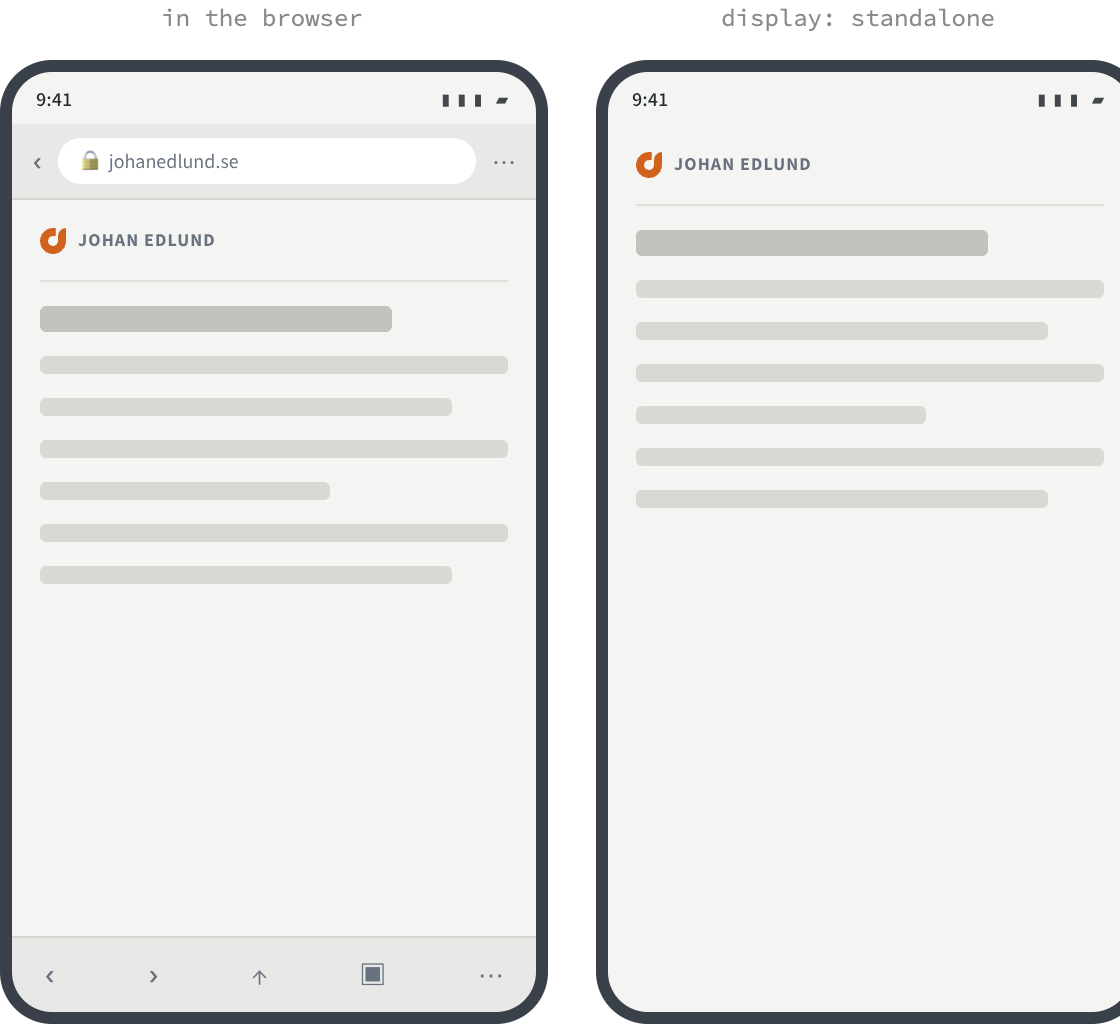
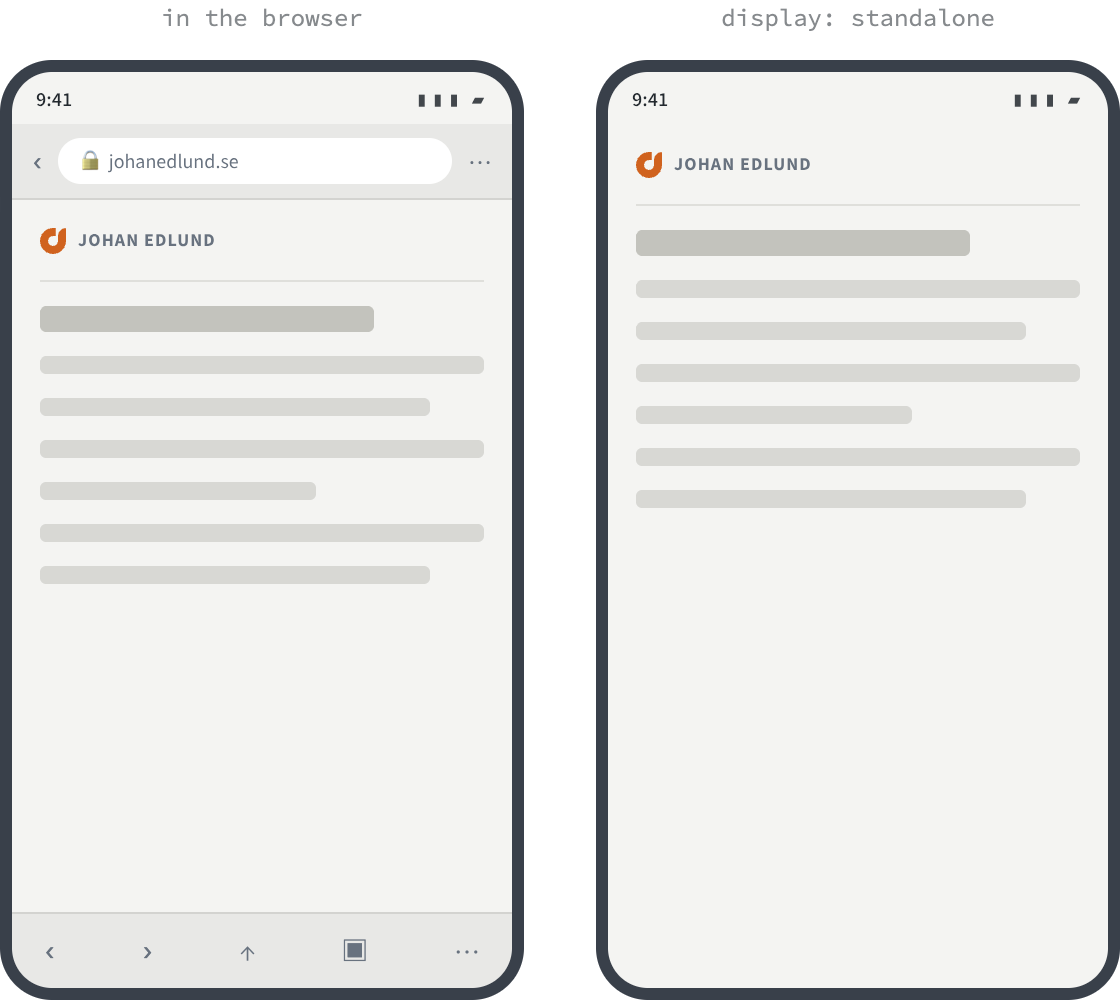
PWA figures get dark twins and the clipped phone is whole; a bare address links on its first mention only

diff --git a/src/wiki/_sources/pwa-display-modes.html b/src/wiki/_sources/pwa-display-modes.html
@@ -1,5 +1,5 @@
 <!doctype html>
-<html lang="en">
+<html lang="en" data-theme="light" data-dark-shot>
 <head>
 <meta charset="utf-8">
 <title>Progressive web apps — wiki mockup</title>
@@ -7,12 +7,36 @@
   @font-face { font-family: 'Source Sans'; font-weight: 100 1000; src: url('../../_includes/themes/jedee/fonts/source-sans/source-sans.woff2') format('woff2'); }
   @font-face { font-family: 'Source Code Pro'; src: url('../../_includes/themes/jedee/fonts/source-code-pro/source-code-pro.woff2') format('woff2'); }
 
-  /* ⚠ Both status bars are meta.themeLight. The browser tints its own bar from the same <meta name="theme-color">, so giving the left frame a browser gray would have drawn a difference that does not exist. */
+  /* ⚠ Both status bars are the <meta name="theme-color"> of the theme shown. The browser tints its own bar from that same tag, so giving the left frame a browser gray would have drawn a difference that does not exist. */
   :root {
     --ink: #23292F;
-    --paper: #F4F4F2;   /* meta.themeLight — <meta name="theme-color"> in light mode */
+    --paper: #F4F4F2;   /* meta.themeLight */
+    --status-bg: #F4F4F2;
+    --status-ink: #23292F;
     --rule: #cbcdd2;
     --muted: #68727F;
+    --chrome: #e8e8e6;
+    --chrome-rule: #d3d3d0;
+    --pill: #fff;
+    --page-rule: #dfdfdb;
+    --line: #d8d8d4;
+    --line-title: #c3c3bd;
+  }
+
+  /* Dark values are the site's dark tokens: gray-900 page, gray-250 text, gray-300 muted, gray-700/800 surfaces, meta.themeDark status bar. */
+  :root[data-theme="dark"] {
+    --ink: #C8CACC;
+    --paper: #141619;
+    --status-bg: #495464;
+    --status-ink: #fff;
+    --rule: #383b3f;
+    --muted: #acaeb1;
+    --chrome: #2b2e32;
+    --chrome-rule: #383b3f;
+    --pill: #383b3f;
+    --page-rule: #383b3f;
+    --line: #2b2e32;
+    --line-title: #383b3f;
   }
 
   body { margin: 0; padding: 40px; background: #ddd; font: 14px/1.5 'Source Sans', system-ui, sans-serif; color: var(--ink); }
@@ -34,23 +58,23 @@
     font-size: 12px; color: var(--ink); opacity: 0.55; margin: 0 0 12px; text-align: center;
   }
 
-  .phone { inline-size: 262px; block-size: 470px; border-radius: 26px; background: #39404a; padding: 6px; }
+  .phone { box-sizing: border-box; inline-size: 262px; block-size: 470px; border-radius: 26px; background: #39404a; padding: 6px; }
   .screen { inline-size: 100%; block-size: 100%; border-radius: 20px; overflow: hidden; display: flex; flex-direction: column; }
-  .status { block-size: 26px; flex: none; display: flex; align-items: center; justify-content: space-between; padding: 0 12px; font-size: 10px; font-weight: 600; }
+  .status { background: var(--status-bg); color: var(--status-ink); block-size: 26px; flex: none; display: flex; align-items: center; justify-content: space-between; padding: 0 12px; font-size: 10px; font-weight: 600; }
   .status .dots { letter-spacing: 2px; opacity: 0.85; }
 
   /* Browser chrome: a URL bar above and a toolbar below, both of which the page never gets back. */
-  .urlbar { flex: none; background: #e8e8e6; border-block-end: 1px solid #d3d3d0; padding: 7px 10px; display: flex; align-items: center; gap: 8px; }
-  .urlbar .pill { flex: 1; background: #fff; border-radius: 999px; padding: 4px 10px; font-size: 10px; color: var(--muted); display: flex; align-items: center; gap: 5px; }
+  .urlbar { flex: none; background: var(--chrome); border-block-end: 1px solid var(--chrome-rule); padding: 7px 10px; display: flex; align-items: center; gap: 8px; }
+  .urlbar .pill { flex: 1; background: var(--pill); border-radius: 999px; padding: 4px 10px; font-size: 10px; color: var(--muted); display: flex; align-items: center; gap: 5px; }
   .urlbar .ic { color: var(--muted); font-size: 12px; }
-  .toolbar { flex: none; background: #e8e8e6; border-block-start: 1px solid #d3d3d0; padding: 9px 16px; display: flex; align-items: center; justify-content: space-between; font-size: 13px; color: var(--muted); }
+  .toolbar { flex: none; background: var(--chrome); border-block-start: 1px solid var(--chrome-rule); padding: 9px 16px; display: flex; align-items: center; justify-content: space-between; font-size: 13px; color: var(--muted); }
 
   /* The page itself — identical markup in both frames. */
   .app-body { flex: 1; background: var(--paper); padding: 14px; }
-  .crumb { display: flex; align-items: center; gap: 6px; font-size: 9px; font-weight: 700; letter-spacing: 0.06em; text-transform: uppercase; color: var(--muted); padding-block-end: 12px; border-block-end: 1px solid #dfdfdb; }
+  .crumb { display: flex; align-items: center; gap: 6px; font-size: 9px; font-weight: 700; letter-spacing: 0.06em; text-transform: uppercase; color: var(--muted); padding-block-end: 12px; border-block-end: 1px solid var(--page-rule); }
   .crumb svg { inline-size: 13px; block-size: 13px; fill: #d0621e; }
-  .hl { block-size: 9px; border-radius: 3px; background: #d8d8d4; margin-block-start: 12px; }
-  .hl.t { block-size: 13px; inline-size: 75%; background: #c3c3bd; }
+  .hl { block-size: 9px; border-radius: 3px; background: var(--line); margin-block-start: 12px; }
+  .hl.t { block-size: 13px; inline-size: 75%; background: var(--line-title); }
   .hl.s { inline-size: 88%; }
   .hl.u { inline-size: 62%; }
 </style>
@@ -62,7 +86,7 @@
     <div>
       <p class="label">in the browser</p>
       <div class="phone"><div class="screen" data-compare="display-mode">
-        <div class="status" style="background:#F4F4F2; color:#23292F"><span>9:41</span><span class="dots">▮▮▮ ▰</span></div>
+        <div class="status"><span>9:41</span><span class="dots">▮▮▮ ▰</span></div>
         <div class="urlbar">
           <span class="ic">‹</span>
           <span class="pill">🔒 johanedlund.se</span>
@@ -79,7 +103,7 @@
     <div>
       <p class="label">display: standalone</p>
       <div class="phone"><div class="screen" data-compare="display-mode">
-        <div class="status" style="background:#F4F4F2; color:#23292F"><span>9:41</span><span class="dots">▮▮▮ ▰</span></div>
+        <div class="status"><span>9:41</span><span class="dots">▮▮▮ ▰</span></div>
         <div class="app-body">
           <div class="crumb"><svg viewBox="0 0 100 100"><path d="m50 0 .588.003V0h9.706v30.882h-9.706v.009a19 19 0 0 0-.588-.009c-10.558 0-19.118 8.559-19.118 19.118S39.441 69.118 50 69.118 69.118 60.559 69.118 50V30.882C69.118 13.826 82.945 0 100 0v50c0 27.614-22.386 50-50 50S0 77.614 0 50 22.386 0 50 0"/></svg><span>Johan Edlund</span></div>
           <div class="hl t"></div><div class="hl"></div><div class="hl s"></div><div class="hl"></div><div class="hl u"></div><div class="hl"></div><div class="hl s"></div>

diff --git a/src/wiki/_sources/pwa-preview.html b/src/wiki/_sources/pwa-preview.html
@@ -1,7 +1,11 @@
 <!doctype html>
+<html lang="en" data-theme="light" data-dark-shot>
 <meta charset="utf-8">
 <title>PWA preview</title>
 <style>
+  :root { --paper:#F4F4F2; --ink:#23292F; --muted:#68727F; --rule:#dfdfdb; --line:#d8d8d4; --line-title:#c3c3bd; --sheet:#fff; --dim:#5a6a7a; }
+  /* Dark values are the site's dark tokens (gray-900 page, gray-250 text, gray-300 muted, gray-700/800 surfaces). ⚠ The splash stays light: the manifest has one background_color for both themes. */
+  :root[data-theme="dark"] { --paper:#141619; --ink:#C8CACC; --muted:#acaeb1; --rule:#383b3f; --line:#2b2e32; --line-title:#383b3f; --sheet:#2b2e32; --dim:#2b333d; }
   body { margin:0; padding:32px; font:14px/1.5 -apple-system, system-ui, sans-serif; background:#ececea; color:#23292F; }
   h1 { font-size:18px; margin:0 0 4px; }
   .lede { color:#68727F; margin:0 0 28px; max-width:62ch; }
@@ -29,28 +33,28 @@
   .splash b { font-size:13px; font-weight:600; color:#23292F; }
 
   /* running */
-  .app-body { flex:1; background:#F4F4F2; padding:14px; }
-  .crumb { display:flex; align-items:center; gap:6px; font-size:9px; font-weight:700; letter-spacing:.06em; text-transform:uppercase; color:#68727F; padding-bottom:12px; border-bottom:1px solid #dfdfdb; }
+  .app-body { flex:1; background:var(--paper); padding:14px; }
+  .crumb { display:flex; align-items:center; gap:6px; font-size:9px; font-weight:700; letter-spacing:.06em; text-transform:uppercase; color:var(--muted); padding-bottom:12px; border-bottom:1px solid var(--rule); }
   .crumb img { width:13px; height:13px; }
-  .hl { height:9px; border-radius:3px; background:#d8d8d4; margin-top:12px; }
-  .hl.t { height:13px; width:75%; background:#c3c3bd; }
+  .hl { height:9px; border-radius:3px; background:var(--line); margin-top:12px; }
+  .hl.t { height:13px; width:75%; background:var(--line-title); }
 
   /* recents */
   .recents { flex:1; background:#2b333d; padding:22px 14px; display:flex; flex-direction:column; align-items:center; }
   .card { width:100%; border-radius:12px; overflow:hidden; box-shadow:0 6px 16px rgb(0 0 0 / .35); }
   .card-bar { display:flex; align-items:center; gap:7px; padding:7px 9px; font-size:10px; font-weight:600; color:#fff; }
   .card-bar img { width:15px; height:15px; border-radius:4px; }
-  .card-body { background:#F4F4F2; height:180px; padding:12px; }
+  .card-body { background:var(--paper); height:180px; padding:12px; }
 
   /* install sheet */
-  .dim { flex:1; background:#5a6a7a; position:relative; }
-  .sheet { position:absolute; left:0; right:0; bottom:0; background:#fff; border-radius:16px 16px 0 0; padding:16px; }
+  .dim { flex:1; background:var(--dim); position:relative; }
+  .sheet { position:absolute; left:0; right:0; bottom:0; background:var(--sheet); color:var(--ink); border-radius:16px 16px 0 0; padding:16px; }
   .sheet-top { display:flex; gap:11px; align-items:center; }
   .sheet-top img { width:42px; height:42px; }
   .sheet-name { font-size:13px; font-weight:600; }
-  .sheet-url { font-size:11px; color:#68727F; }
+  .sheet-url { font-size:11px; color:var(--muted); }
   .btns { display:flex; justify-content:flex-end; gap:16px; margin-top:16px; font-size:12px; font-weight:600; }
-  .btns .a { color:#68727F; }
+  .btns .a { color:var(--muted); }
   .btns .b { color:#d0621e; }
 </style>
 
@@ -82,7 +86,7 @@
 
   <div class="item">
     <div class="phone" data-shot="pwa-install-prompt"><div class="screen">
-      <div class="status" style="background:#5a6a7a"><span>9:41</span><span class="dots">▮▮▮ ▰</span></div>
+      <div class="status" style="background:var(--dim)"><span>9:41</span><span class="dots">▮▮▮ ▰</span></div>
       <div class="dim">
         <div class="sheet">
           <div class="sheet-top">
@@ -98,7 +102,7 @@
   </div>
 
   <div class="item">
-    <div class="phone" data-shot="pwa-splash-screen"><div class="screen">
+    <div class="phone" data-shot="pwa-splash-screen" data-light-only><div class="screen">
       <div class="status" style="background:#495464"><span>9:41</span><span class="dots">▮▮▮ ▰</span></div>
       <div class="splash">
         <img src="../../assets/images/favicon/icon-512x512.png" alt="">
@@ -110,7 +114,7 @@
   </div>
 
   <div class="item">
-    <div class="phone" data-shot="pwa-running-light"><div class="screen">
+    <div class="phone" data-shot="pwa-running-light" data-light-only><div class="screen">
       <div class="status" style="background:#F4F4F2; color:#23292F"><span>9:41</span><span class="dots">▮▮▮ ▰</span></div>
       <div class="app-body">
         <div class="crumb"><img src="../../assets/images/favicon/favicon.svg" alt=""><span>&rsaquo; Jams &rsaquo; Genres</span></div>
@@ -123,7 +127,7 @@
   </div>
 
   <div class="item">
-    <div class="phone" data-shot="pwa-running-dark"><div class="screen">
+    <div class="phone" data-shot="pwa-running-dark" data-light-only><div class="screen">
       <div class="status" style="background:#495464; color:#fff"><span>9:41</span><span class="dots">▮▮▮ ▰</span></div>
       <div class="app-body" style="background:#141619">
         <div class="crumb" style="color:#9aa0a6; border-color:#383b3f"><img src="../../assets/images/favicon/favicon.svg" alt=""><span>&rsaquo; Jams &rsaquo; Genres</span></div>

diff --git a/src/_config/plugins/markdown.js b/src/_config/plugins/markdown.js
@@ -19,6 +19,26 @@ export const markdownLib = markdownIt({
   .disable('code')
   // ⚠ Bare words only autolink on these endings; the default list of every two-letter country code turned AGENTS.md into a link to a website.
   .use(md => md.linkify.tlds(['com', 'net', 'org', 'io', 'cc', 'se', 'dev', 'app']))
+  // A bare address links on its first mention only; later mentions stay plain text. Hand-written links are untouched.
+  .use(md => {
+    md.core.ruler.push('linkify_first_only', state => {
+      const seen = new Set();
+      for (const block of state.tokens) {
+        if (block.type !== 'inline' || !block.children) continue;
+        const kept = [];
+        let dropClose = false;
+        for (const t of block.children) {
+          if (t.type === 'link_open' && t.markup === 'linkify') {
+            const href = t.attrGet('href');
+            if (seen.has(href)) { dropClose = true; continue; }
+            seen.add(href);
+          } else if (t.type === 'link_close' && dropClose) { dropClose = false; continue; }
+          kept.push(t);
+        }
+        block.children = kept;
+      }
+    });
+  })
   .use(markdownItAttrs)
   // Prism has no Nunjucks grammar, so ````njk` fences are rendered as jinja2 — close enough, and it highlights the surrounding HTML too. Must run before markdown-it-prism.
   .use(md => {

diff --git a/tests/linkify-first-only.test.js b/tests/linkify-first-only.test.js
@@ -1,0 +1,8 @@
+import { test } from 'node:test';
+import assert from 'node:assert/strict';
+import { markdownLib } from '../src/_config/plugins/markdown.js';
+
+test('a bare address links on its first mention only; hand-written links stay', () => {
+  const html = markdownLib.render('Use schema.org.\n\nAgain schema.org, [schema.org](https://schema.org) by hand, schema.org.');
+  assert.equal((html.match(/<a /g) || []).length, 2);
+});

diff --git a/src/wiki/Figures.md b/src/wiki/Figures.md
@@ -1,7 +1,7 @@
 ---
 description: "The figure and figcaption elements, images that follow the site's light or dark theme, and where a caption sits relative to the text around it."
 date: 2026-09-29
-updated: 2026-10-14
+updated: 2026-11-09
 ---
 
 A `<figure>` holds content that the text refers to but that could move elsewhere without breaking the reading order: an image, a diagram, a code listing, a table. Its `<figcaption>` labels it, and becomes the figure's accessible name, so a screen reader announces the caption when it reaches the figure ([MDN](https://developer.mozilla.org/en-US/docs/Web/HTML/Element/figure)). The caption is not a replacement for the image's `alt`: the alt says what the image shows, the caption says why it is there. See [[Alt text]].
@@ -151,7 +151,7 @@ On the site, a markdown preprocessor in `eleventy.config.js` (`wiki-dark-figures
 
 This only works for a mockup whose colors come from the site's stylesheet. A color written into the mockup by hand stays a light-theme color in the dark shot. The accent tokens are a subtler case: in dark mode `--color-accent-blue` and `--color-accent-green` become muted surface colors that disappear as text, so the breakouts, tooltips and layout-shift mockups carry a dark-only rule that swaps their labels to `--color-blue-vivid` and `--color-green-vivid`, about 5:1 on the dark page. A caption dimmed with `opacity` also dims any colored word inside it, so those captions dim by mixing their color with the background instead. Look at every dark PNG before opting a mockup in.
 
-A mockup with its hand-picked palette, like the specimen cards on [[OpenType features]], can still have a twin: its palette variables get a second set of values under `[data-theme="dark"]`, taken from the site's dark tokens, and the rewrite flips them like anything else. A shot whose subject is the light theme itself opts back out with `data-light-only` on its `[data-shot]` — the sun colors on [[The theme toggle]], measured against the light page, are the one that does. Twenty-four shots have twins; the two drawn phones on [[Progressive web apps]] do not, because a phone showing the site in one theme is the picture, not a color choice.
+A mockup with its hand-picked palette, like the specimen cards on [[OpenType features]], can still have a twin: its palette variables get a second set of values under `[data-theme="dark"]`, taken from the site's dark tokens, and the rewrite flips them like anything else. A shot whose subject is the light theme itself opts back out with `data-light-only` on its `[data-shot]`: the sun colors on [[The theme toggle]], measured against the light page, and three of the phones on [[Favicons]]. The splash stays light because the manifest has one `background_color` for both themes, and the running-light and running-dark pair are already one shot per theme. The other drawn phones, including both on [[Progressive web apps]], show the site in the theme the reader is using.
 
 ### The panel behind a shot
 

diff --git a/AGENTS.md b/AGENTS.md
@@ -206,6 +206,7 @@ A Claude-maintained wiki documenting how jedee is designed and built — the tec
 
 - A post *may* link into the wiki, but rarely should: the wiki is reference material the site does not feature, and a post that keeps pointing at it drags the site back to being about its own construction. Default to no. Wiki pages still `[[link]]` freely to each other and to posts.
 - External links are encouraged (a techniques wiki cites its sources): ordinary markdown links like `[CUBE CSS](https://cube.fyi)`. Wikilinks are only for pages inside the vault.
+- Link a term on its first mention only; later mentions are plain text. A bare address such as schema.org follows this by itself (`linkify_first_only` in `src/_config/plugins/markdown.js`); a hand-written link repeated further down does not, so a lint looks for it.
 - Scope: **web development only.** The wiki covers making the site — techniques, patterns, decisions. Craft knowledge from the production side of a post (audio gear and recording chains, camera and scanning technique) is out of scope even when the resulting post is published here; it belongs in `LOG.md` and the relevant `_local/generated/Plan - …` record. The test before an ingest is whether the knowledge is about making the web thing or about making the thing the page is about.
 - Page style: the dev-note voice — factual, reporting tone, code snippets to illustrate each technique. No marketing prose, no first-person flourishes.
 - The ⚠ marker is rationed: at most one per page, and a second only on a page long enough to cover two separate systems. It marks something that fails *without saying so* — a build that succeeds while the output is wrong, a declaration that silently does nothing, a test that passes on a path that no longer exists. Not a caveat, not an aside, not a measurement, not "note that". Everything else is ordinary prose, and bold already does the work of drawing the eye. Used more often than that, the marker stops meaning anything. ⚠ in the index is always wrong: the page one click away carries it.

diff --git a/src/wiki/Progressive web apps.md b/src/wiki/Progressive web apps.md
@@ -37,7 +37,7 @@ The optional `scope` argument limits which requests the worker may intercept, as
 Less than the name suggests, and that is the point rather than a disappointment. `display: standalone` removes the URL bar and the browser's toolbar; the page keeps its width and gains their height. The OS status bar stays.
 
 <figure class="popout" data-wiki-mockup>
-  <img eleventy:formats="webp,png" src="/assets/images/wiki/pwa-display-modes.png" alt="Two phone frames side by side showing the same page. On the left, in a browser, an address bar sits below the status bar and a toolbar of navigation icons across the bottom, leaving a shorter page area. On the right, installed, the page begins directly under the status bar and runs to the bottom edge with no browser furniture at all." width="1120" height="1024">
+  <img eleventy:formats="webp,png" src="/assets/images/wiki/pwa-display-modes.png" alt="Two phone frames side by side showing the same page. On the left, in a browser, an address bar sits below the status bar and a toolbar of navigation icons across the bottom, leaving a shorter page area. On the right, installed, the page begins directly under the status bar and runs to the bottom edge with no browser furniture at all." width="1120" height="1000">
   <figcaption>The same page, in a browser tab and installed. The two bands the left frame spends on browser furniture are the whole of what <code>display: standalone</code> gives back.</figcaption>
 </figure>
 
